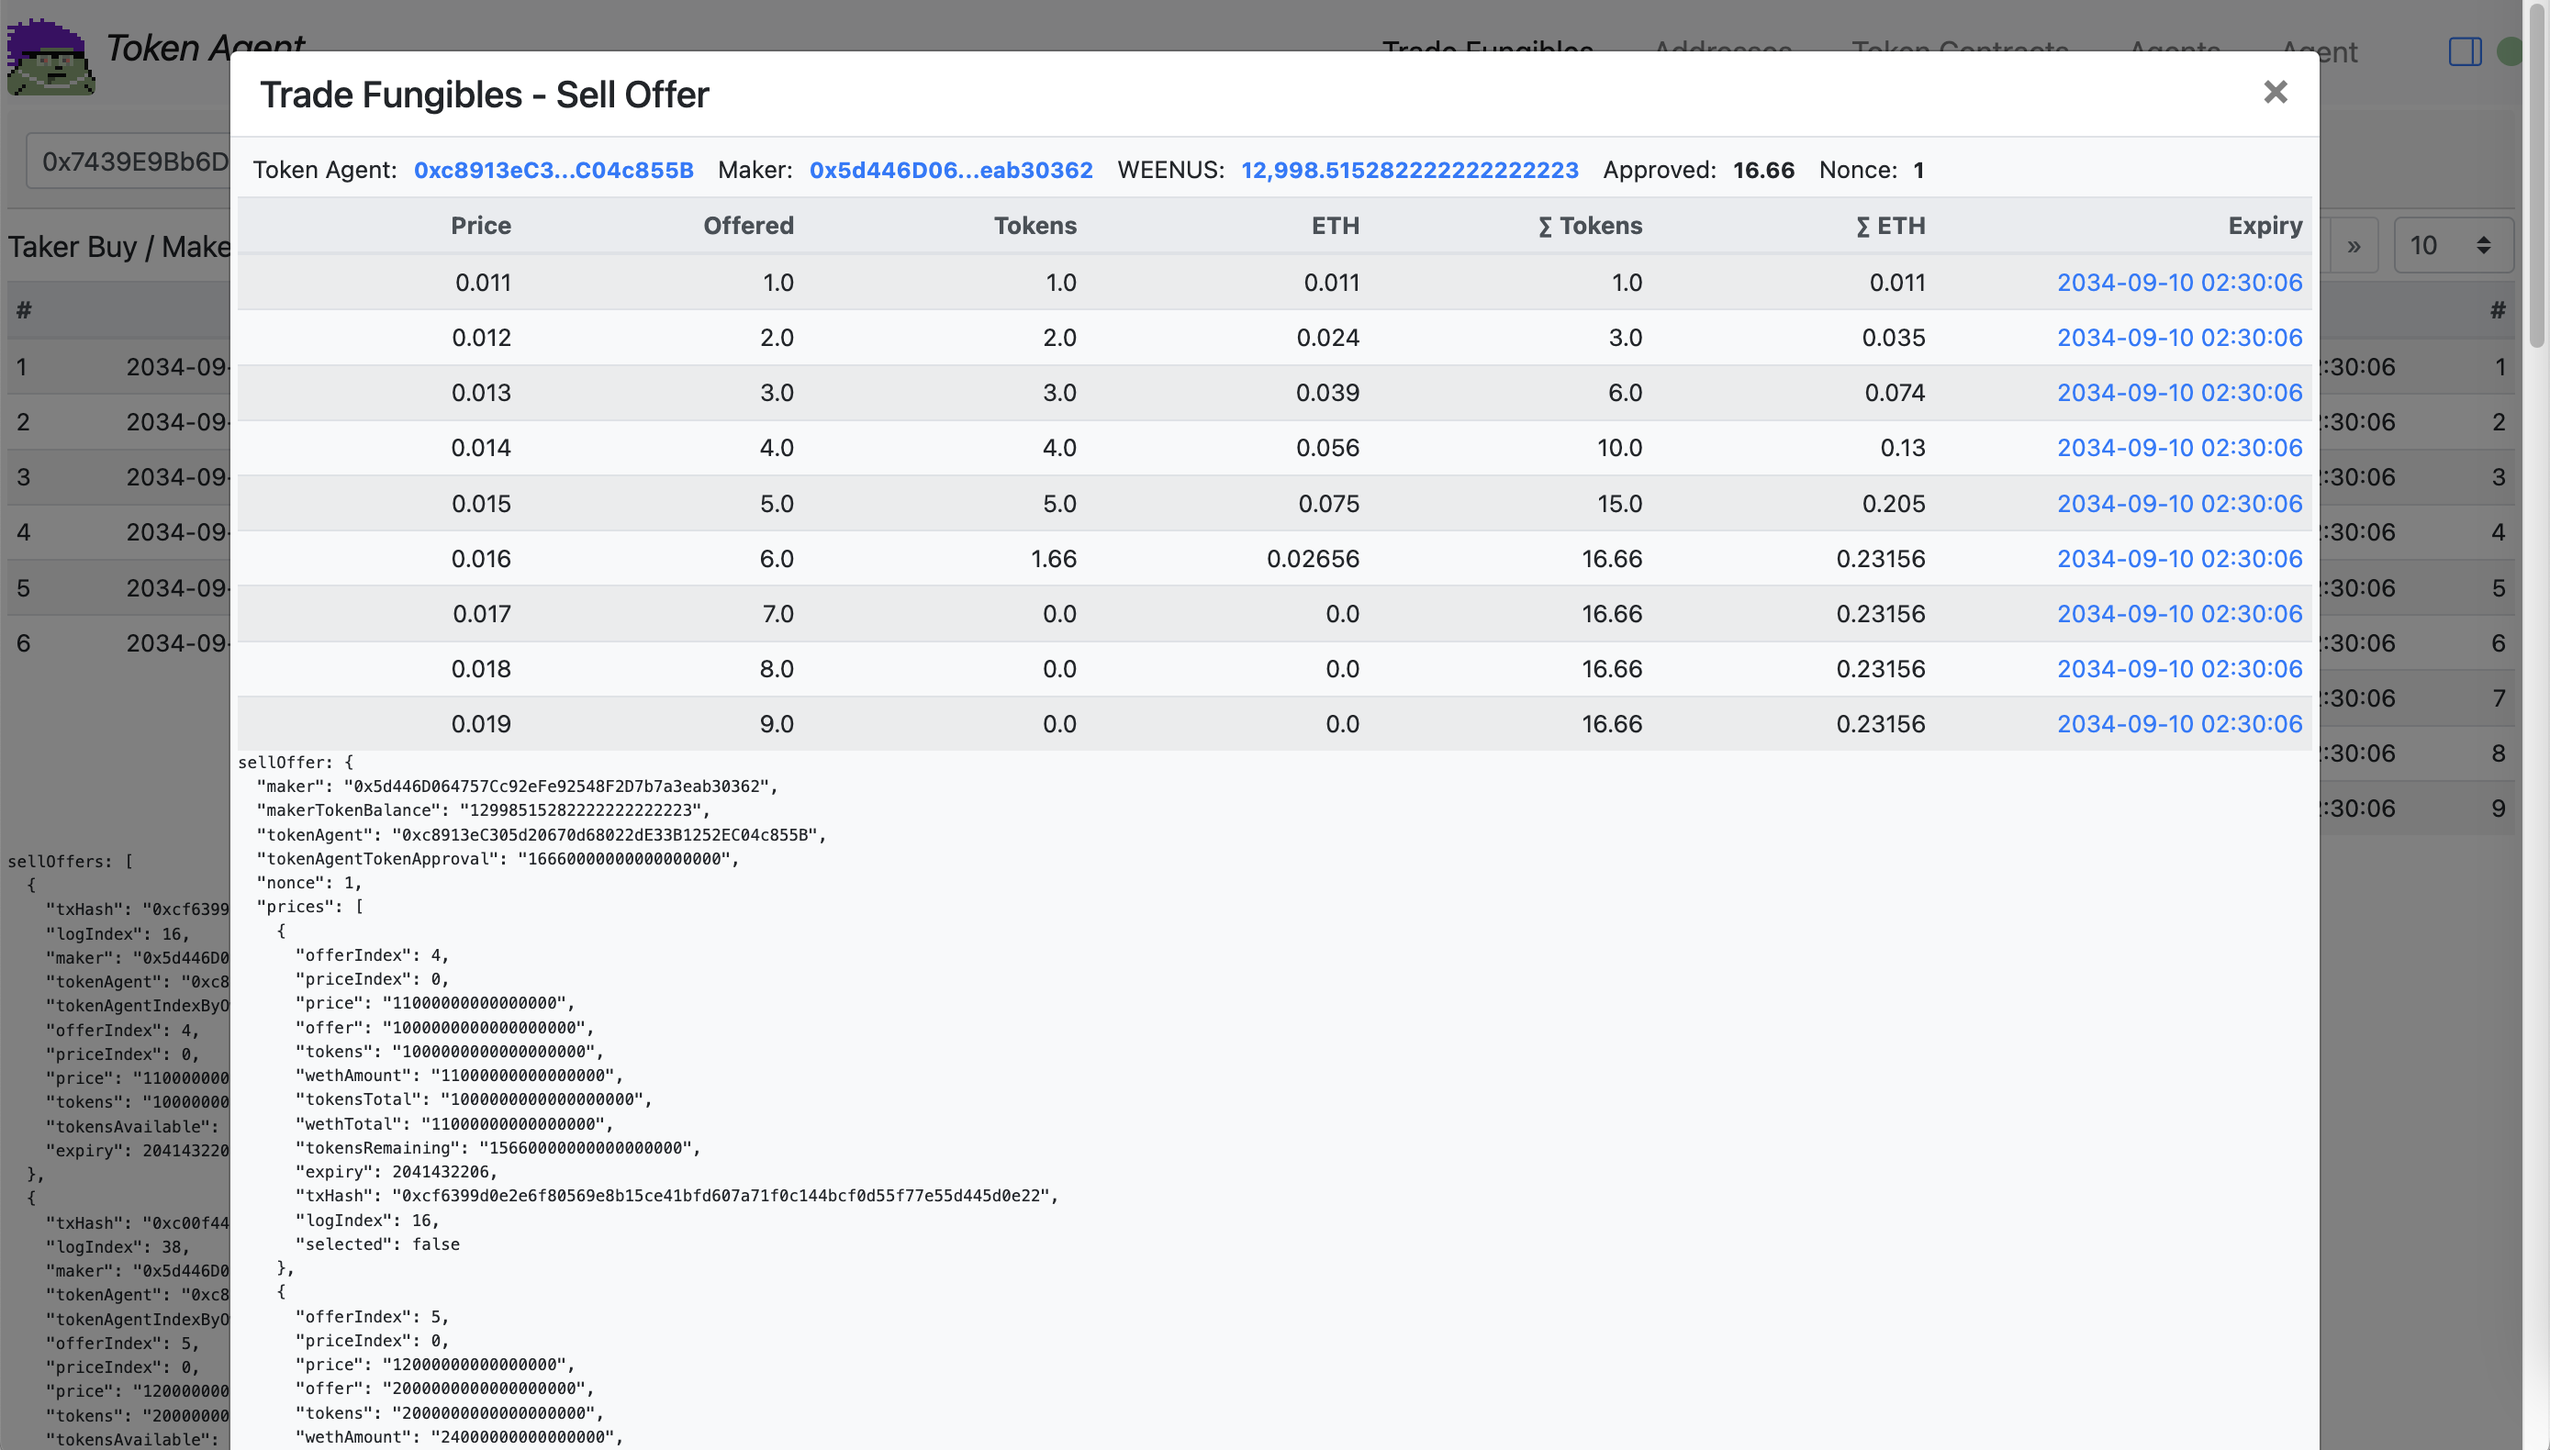
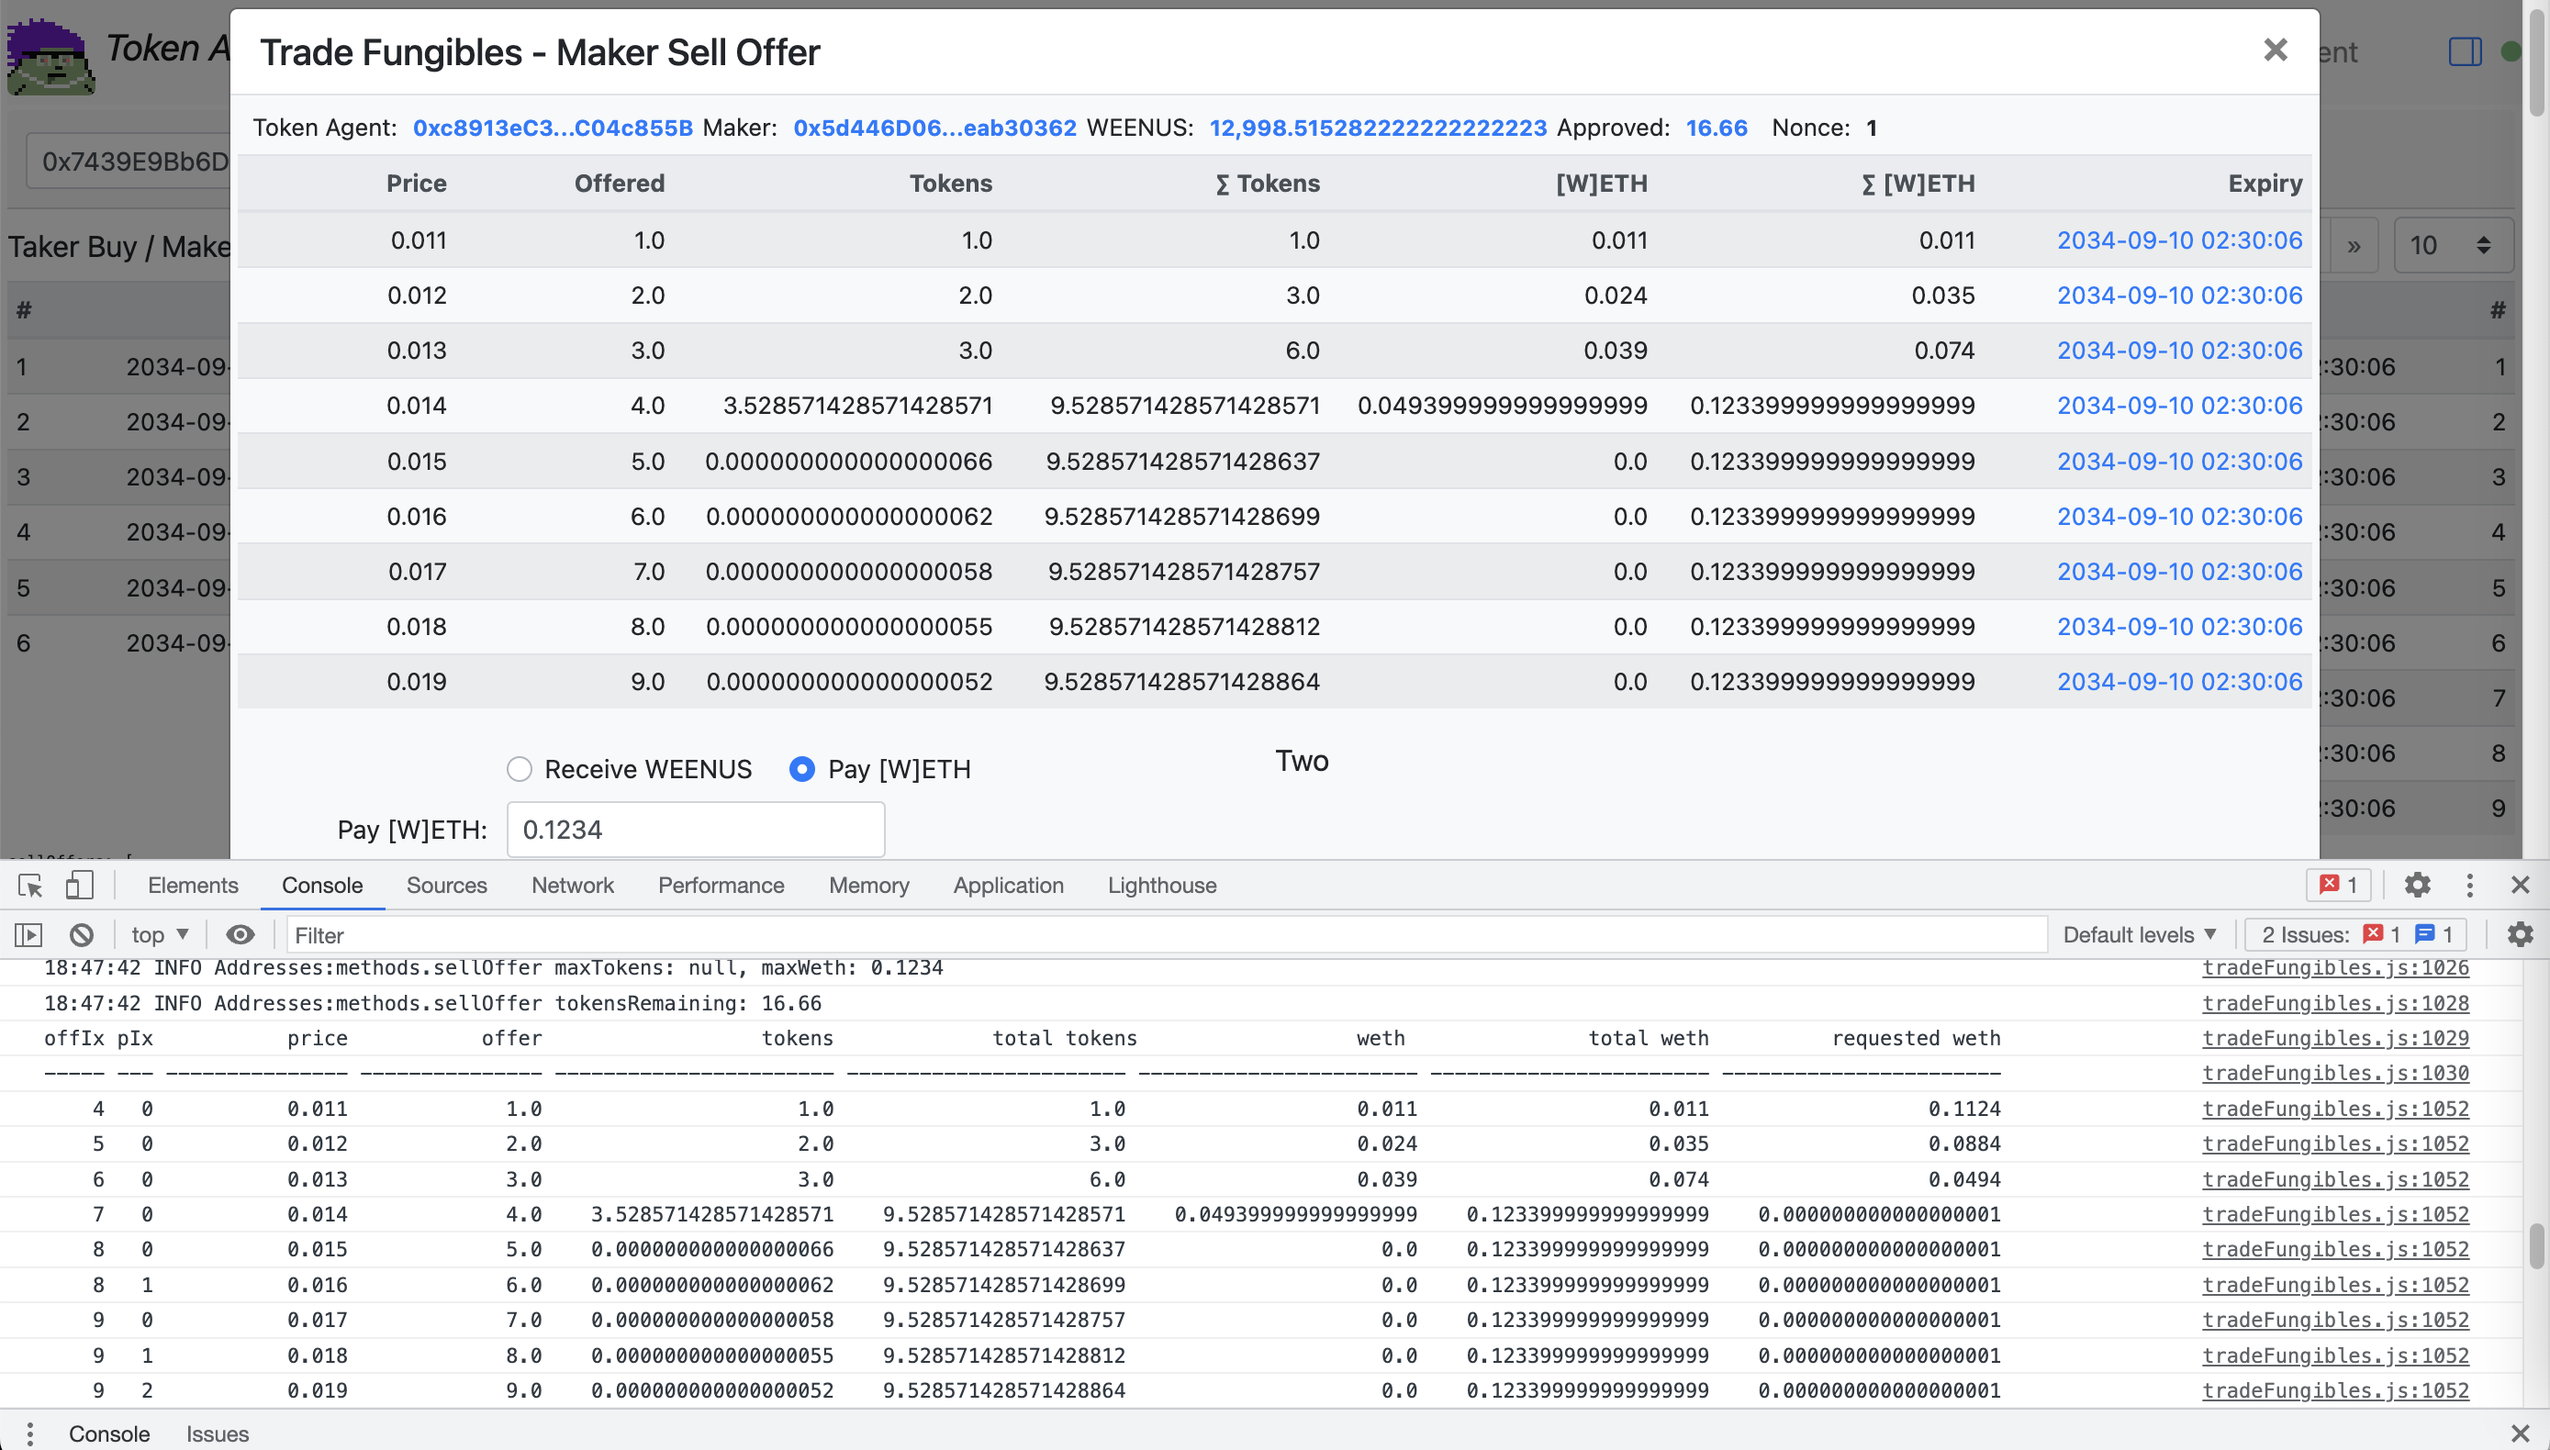
ui wip

diff --git a/docs/tradeFungibles.js b/docs/tradeFungibles.js
@@ -113,14 +113,14 @@ const TradeFungibles = {
                       {{ formatDecimals(data.item.wethAmount, 18) }}
                     </font>
                   </template>
-                  <template #cell(tokensTotal)="data">
+                  <template #cell(totalTokens)="data">
                     <font size="-1">
-                      {{ formatDecimals(data.item.tokensTotal, 18) }}
+                      {{ formatDecimals(data.item.totalTokens, 18) }}
                     </font>
                   </template>
-                  <template #cell(wethTotal)="data">
+                  <template #cell(totalWeth)="data">
                     <font size="-1">
-                      {{ formatDecimals(data.item.wethTotal, 18) }}
+                      {{ formatDecimals(data.item.totalWeth, 18) }}
                     </font>
                   </template>
                   <template #cell(expiry)="data">
@@ -547,7 +547,7 @@ data: {{ data }}
       wethApprovals: {},
 
       modalSellOffer: {
-        amount: "0.123", // null,
+        amount: "0.1234", // null,
         amountType: 'payWeth', // 'receiveTokens' or 'payWeth'
 
         txHash: null,
@@ -601,13 +601,13 @@ data: {{ data }}
       ],
       sellOfferFields: [
         // { key: 'nonce', label: 'Nonce', sortable: false, thStyle: 'width: 5%;', thClass: 'text-right', tdClass: 'text-right' },
-        { key: 'price', label: 'Price', sortable: false, thStyle: 'width: 15%;', thClass: 'text-right', tdClass: 'text-right' },
-        { key: 'offer', label: 'Offered', sortable: false, thStyle: 'width: 15%;', thClass: 'text-right', tdClass: 'text-right' },
+        { key: 'price', label: 'Price', sortable: false, thStyle: 'width: 10%;', thClass: 'text-right', tdClass: 'text-right' },
+        { key: 'offer', label: 'Offered', sortable: false, thStyle: 'width: 10%;', thClass: 'text-right', tdClass: 'text-right' },
         { key: 'tokens', label: 'Tokens', sortable: false, thStyle: 'width: 15%;', thClass: 'text-right', tdClass: 'text-right' },
+        { key: 'totalTokens', label: '∑ Tokens', sortable: false, thStyle: 'width: 15%;', thClass: 'text-right', tdClass: 'text-right' },
         { key: 'wethAmount', label: '[W]ETH', sortable: false, thStyle: 'width: 15%;', thClass: 'text-right', tdClass: 'text-right' },
-        { key: 'tokensTotal', label: '∑ Tokens', sortable: false, thStyle: 'width: 15%;', thClass: 'text-right', tdClass: 'text-right' },
-        { key: 'wethTotal', label: '∑ [W]ETH', sortable: false, thStyle: 'width: 15%;', thClass: 'text-right', tdClass: 'text-right' },
-        { key: 'expiry', label: 'Expiry', sortable: false, thStyle: 'width: 20%;', thClass: 'text-right', tdClass: 'text-right' },
+        { key: 'totalWeth', label: '∑ [W]ETH', sortable: false, thStyle: 'width: 15%;', thClass: 'text-right', tdClass: 'text-right' },
+        { key: 'expiry', label: 'Expiry', sortable: false, thStyle: 'width: 15%;', thClass: 'text-right', tdClass: 'text-right' },
         // { key: 'number', label: '#', sortable: false, thStyle: 'width: 5%;', tdClass: 'text-left' },
         // { key: 'expiry', label: 'Expiry', sortable: false, thStyle: 'width: 25%;', thClass: 'text-right', tdClass: 'text-right' },
         // { key: 'maker', label: 'Maker', sortable: false, thStyle: 'width: 25%;', thClass: 'text-right', tdClass: 'text-right' },
@@ -966,14 +966,14 @@ data: {{ data }}
       const prices = [];
       if (maker) {
         console.log(now() + " INFO Addresses:methods.sellOffer maker: " + maker + ", makerTokenBalance: " + ethers.utils.formatEther(makerTokenBalance) + ", tokenAgent: " + tokenAgent + ", tokenAgentTokenApproval: " + ethers.utils.formatEther(tokenAgentTokenApproval) + ", nonce: " + nonce + ", offer: " + JSON.stringify(offer));
-        let tokensTotal = ethers.BigNumber.from(0);
-        let wethTotal = ethers.BigNumber.from(0);
+        let totalTokens = ethers.BigNumber.from(0);
+        let totalWeth = ethers.BigNumber.from(0);
         // if (nonce == offer.nonce && (offer.expiry == 0 || offer.expiry > this.data.timestamp) && offer.buySell == 1) {
         //   if (offer.prices.length == 1 && offer.tokenss.length == 0) {
-        //     prices.push({ offerIndex: offer.index, priceIndex: 0, price: offer.prices[0], tokens: null, tokensAvailable: null, tokensRemaining: null, wethAmount: null, tokensTotal: null, wethTotal: null, selected: this.modalSellOffer.priceIndex == 0 });
+        //     prices.push({ offerIndex: offer.index, priceIndex: 0, price: offer.prices[0], tokens: null, tokensAvailable: null, tokensRemaining: null, wethAmount: null, totalTokens: null, totalWeth: null, selected: this.modalSellOffer.priceIndex == 0 });
         //   } else {
         //     for (let i = 0; i < offer.prices.length; i++) {
-        //       prices.push({ offerIndex: offer.index, priceIndex: i, price: offer.prices[i], tokens: offer.tokenss[i], tokensAvailable: null, tokensRemaining: null, wethAmount: null, tokensTotal: null, wethTotal: null, selected: this.modalSellOffer.priceIndex >= i });
+        //       prices.push({ offerIndex: offer.index, priceIndex: i, price: offer.prices[i], tokens: offer.tokenss[i], tokensAvailable: null, tokensRemaining: null, wethAmount: null, totalTokens: null, totalWeth: null, selected: this.modalSellOffer.priceIndex >= i });
         //     }
         //   }
         // }
@@ -983,7 +983,7 @@ data: {{ data }}
           if (nonce == o.nonce && (o.expiry == 0 || o.expiry > this.data.timestamp) && o.buySell == 1) {
             if (o.prices.length == 1 && o.tokenss.length == 0) {
               prices.push({
-                offerIndex: o.index, priceIndex: 0, price: o.prices[0], offer: null, tokens: null, wethAmount: null, tokensTotal: null, wethTotal: null, tokensRemaining: null,
+                offerIndex: o.index, priceIndex: 0, price: o.prices[0], offer: null, tokens: null, wethAmount: null, totalTokens: null, totalWeth: null, tokensRemaining: null,
                 expiry: o.expiry,
                 txHash: o.txHash,
                 logIndex: o.logIndex,
@@ -992,7 +992,7 @@ data: {{ data }}
             } else if (o.prices.length == o.tokenss.length) {
               for (let i = 0; i < o.prices.length; i++) {
                 prices.push({
-                  offerIndex: o.index, priceIndex: i, price: o.prices[i], offer: o.tokenss[i], tokens: null, wethAmount: null, tokensTotal: null, wethTotal: null, tokensRemaining: null,
+                  offerIndex: o.index, priceIndex: i, price: o.prices[i], offer: o.tokenss[i], tokens: null, wethAmount: null, totalTokens: null, totalWeth: null, tokensRemaining: null,
                   expiry: o.expiry,
                   txHash: o.txHash,
                   logIndex: o.logIndex,
@@ -1026,6 +1026,8 @@ data: {{ data }}
         console.log(now() + " INFO Addresses:methods.sellOffer maxTokens: " + (maxTokens && ethers.utils.formatEther(maxTokens) || null) + ", maxWeth: " + (maxWeth && ethers.utils.formatEther(maxWeth) || null));
         let tokensRemaining = makerTokenBalance.lte(tokenAgentTokenApproval) ? makerTokenBalance: tokenAgentTokenApproval;
         console.log(now() + " INFO Addresses:methods.sellOffer tokensRemaining: " + ethers.utils.formatEther(tokensRemaining));
+        console.log("offIx pIx           price           offer                  tokens             total tokens                  weth               total weth" + padLeft(maxWeth != null ? "requested weth" : "requested tokens", 24));
+        console.log("----- --- --------------- --------------- ----------------------- ----------------------- ----------------------- ----------------------- -----------------------");
         for (const [i, e] of prices.entries()) {
           const offer = ethers.BigNumber.from(e.offer);
           let tokens = offer.lte(tokensRemaining) ? offer : tokensRemaining;
@@ -1044,27 +1046,24 @@ data: {{ data }}
             }
             maxWeth = maxWeth.sub(wethAmount);
           }
-          tokensTotal = tokensTotal.add(tokens);
-          wethTotal = wethTotal.add(wethAmount);
+          totalTokens = totalTokens.add(tokens);
+          totalWeth = totalWeth.add(wethAmount);
           tokensRemaining = tokensRemaining.sub(tokens);
-          // if (maxTokens != null) {
-          //   maxtokens = maxTokens.sub(tokens);
-          // }
-          console.log("    oIx: " + e.offerIndex + ", pIx: " + e.priceIndex +
-            ", p: " + ethers.utils.formatEther(e.price) +
-            ", o: " + ethers.utils.formatEther(offer) +
-            ", tkns: " + ethers.utils.formatEther(tokens) +
-            ", weth: " + ethers.utils.formatEther(wethAmount) +
-            ", tknsTot: " + ethers.utils.formatEther(tokensTotal) +
-            ", wethTot: " + ethers.utils.formatEther(wethTotal) +
-            ", tknsRemain: " + ethers.utils.formatEther(tokensRemaining) +
-            ", maxTkns: " + (maxTokens && ethers.utils.formatEther(maxTokens) || null) +
-            ", maxWeth: " + (maxWeth && ethers.utils.formatEther(maxWeth) || null)
+          console.log(
+            padLeft(e.offerIndex, 5) +
+            padLeft(e.priceIndex, 4) +
+            padLeft(ethers.utils.formatEther(e.price), 16) +
+            padLeft(ethers.utils.formatEther(offer), 16) +
+            padLeft(ethers.utils.formatEther(tokens), 24) +
+            padLeft(ethers.utils.formatEther(totalTokens), 24) +
+            padLeft(ethers.utils.formatEther(wethAmount), 24) +
+            padLeft(ethers.utils.formatEther(totalWeth), 24) +
+            padLeft(maxWeth != null ? ethers.utils.formatEther(maxWeth) : (maxTokens != null ? ethers.utils.formatEther(maxTokens) : ''), 24)
           );
           prices[i].tokens = tokens.toString();
           prices[i].wethAmount = wethAmount.toString();
-          prices[i].tokensTotal = tokensTotal.toString();
-          prices[i].wethTotal = wethTotal.toString();
+          prices[i].totalTokens = totalTokens.toString();
+          prices[i].totalWeth = totalWeth.toString();
           prices[i].tokensRemaining = tokensRemaining.toString();
         }
         // console.log(now() + " INFO Addresses:methods.sellOffer prices: " + JSON.stringify(prices));

diff --git a/docs/functions.js b/docs/functions.js
@@ -12,6 +12,20 @@ var DEFAULTDECIMAL = 0xff;
 function formatNumber(n) {
     return n == null ? "" : n.toString().replace(/\B(?=(\d{3})+(?!\d))/g, ",");
 }
+function padLeft(s, n) {
+  var o = s.toString();
+  while (o.length < n) {
+    o = " " + o;
+  }
+  return o;
+}
+function padRight(s, n) {
+  var o = s;
+  while (o.length < n) {
+    o = o + " ";
+  }
+  return o;
+}
 
 var logLevel = 1;
 // 0 = NONE, 1 = INFO (default), 2 = DEBUG
